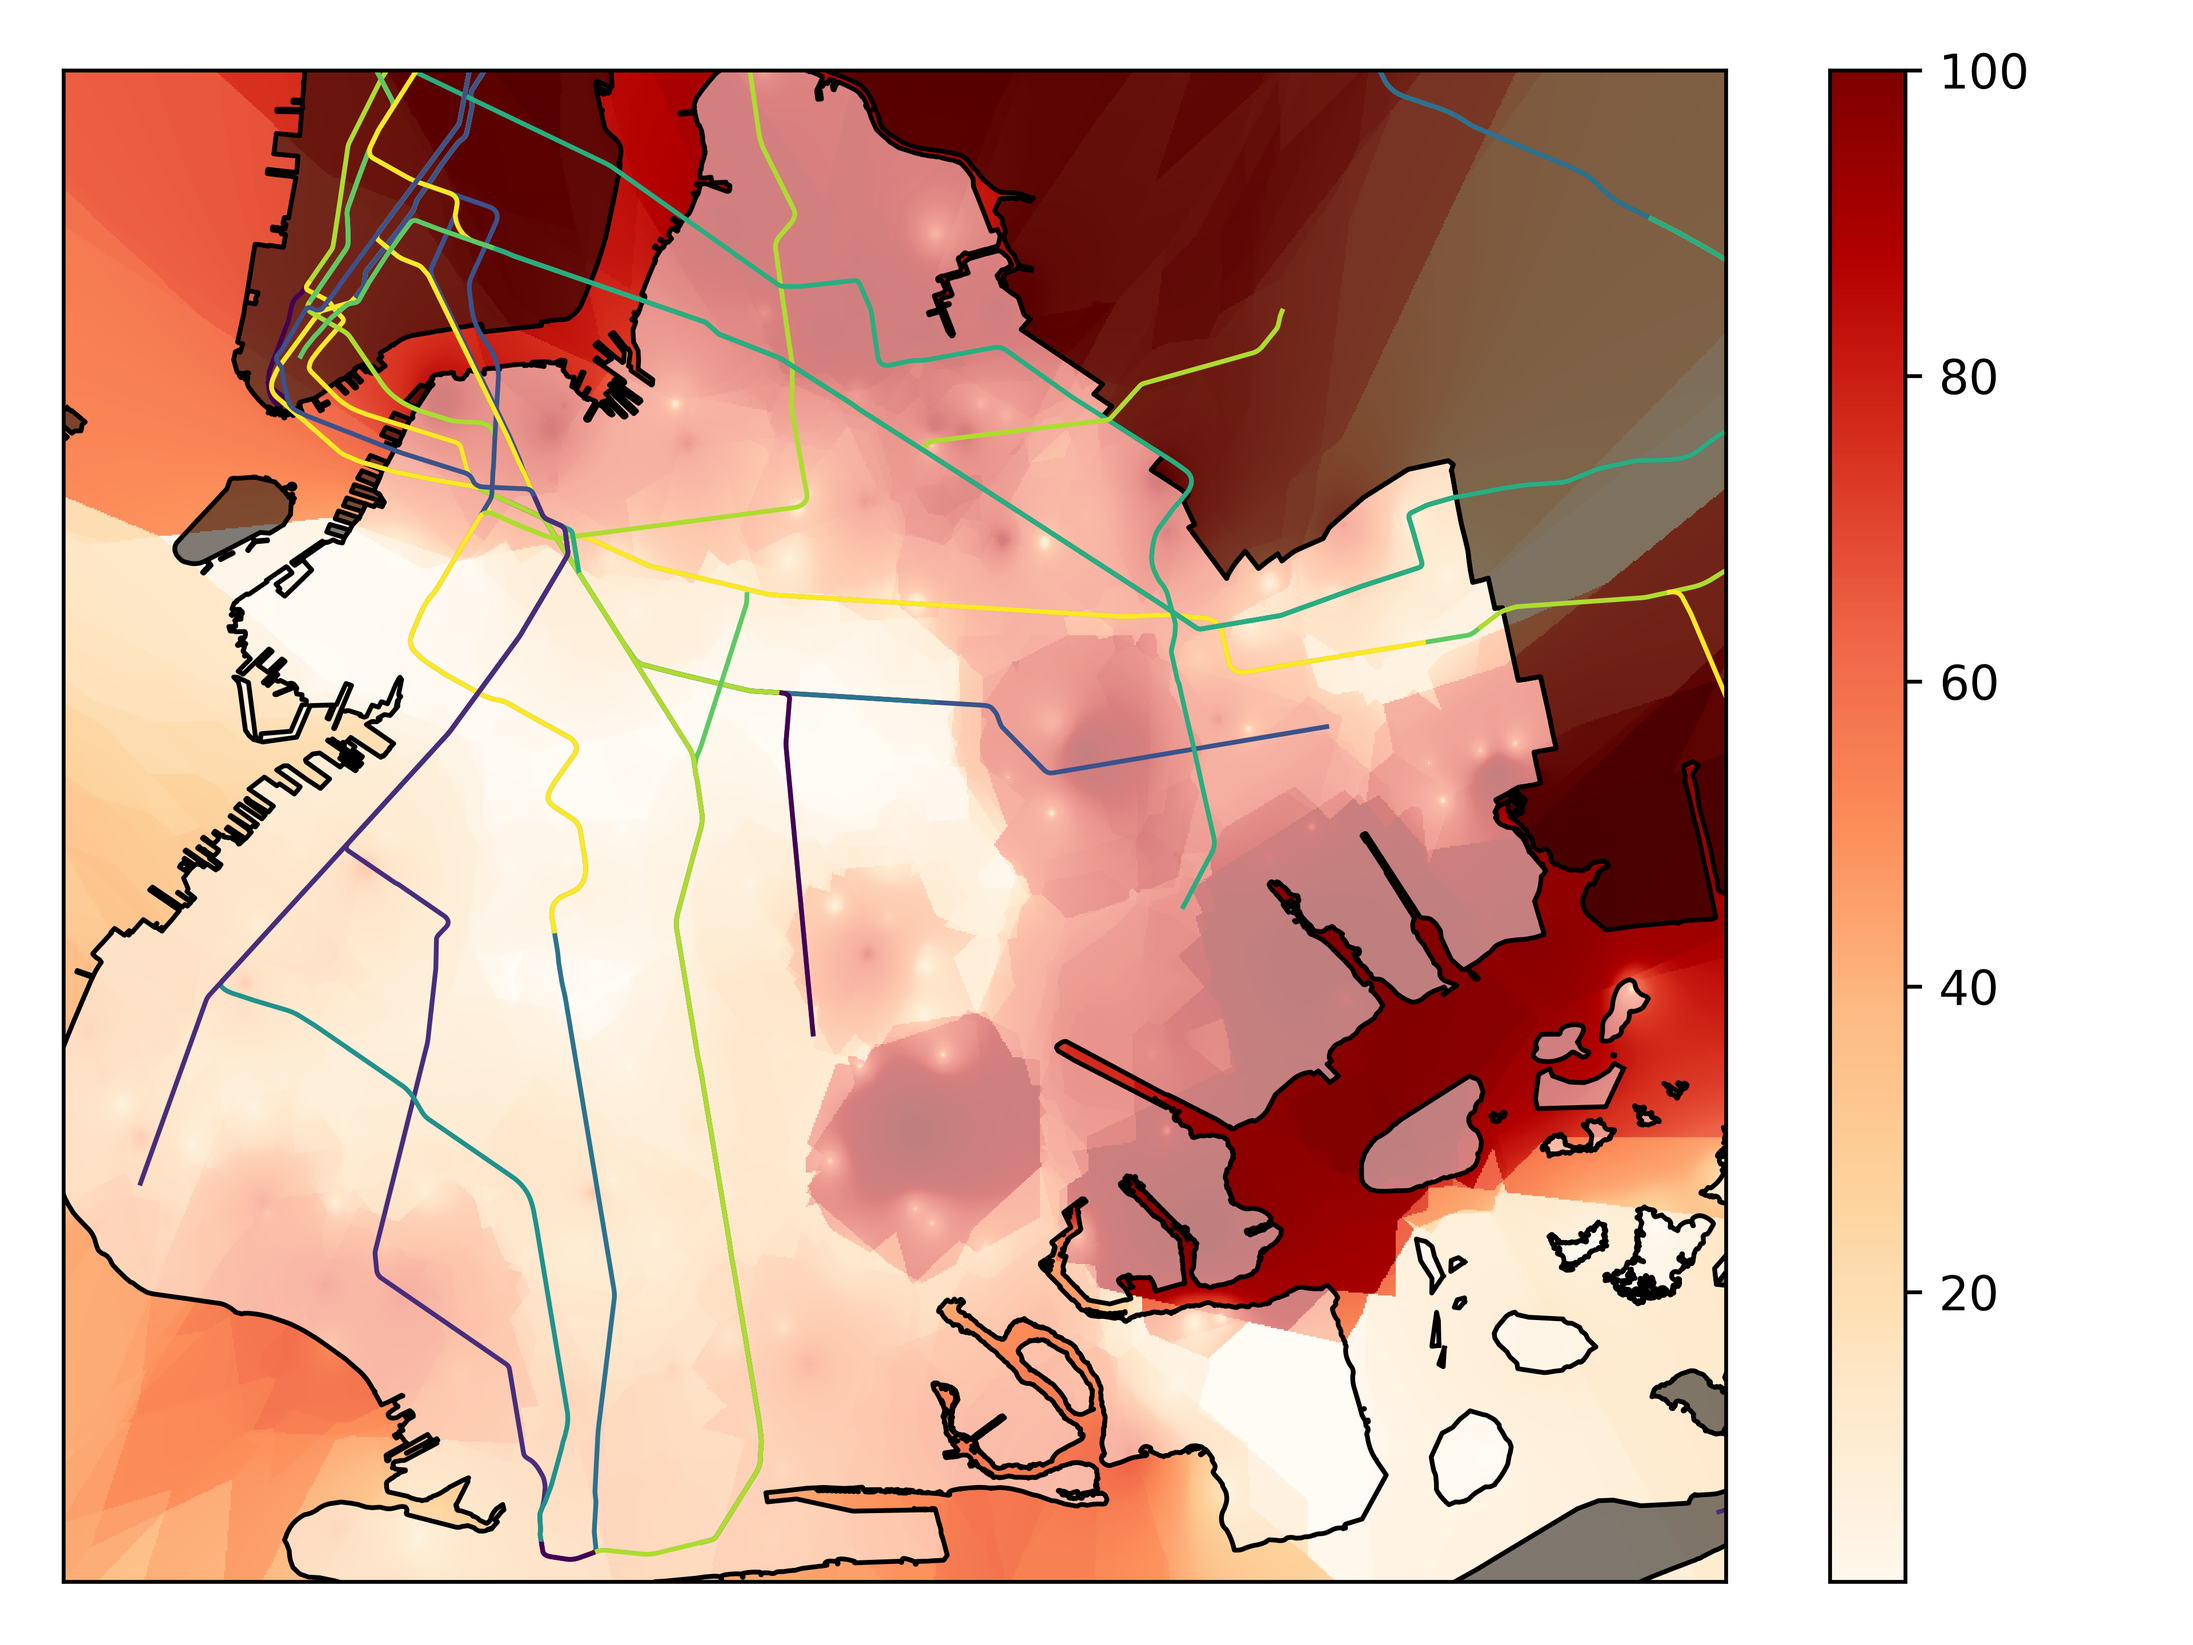
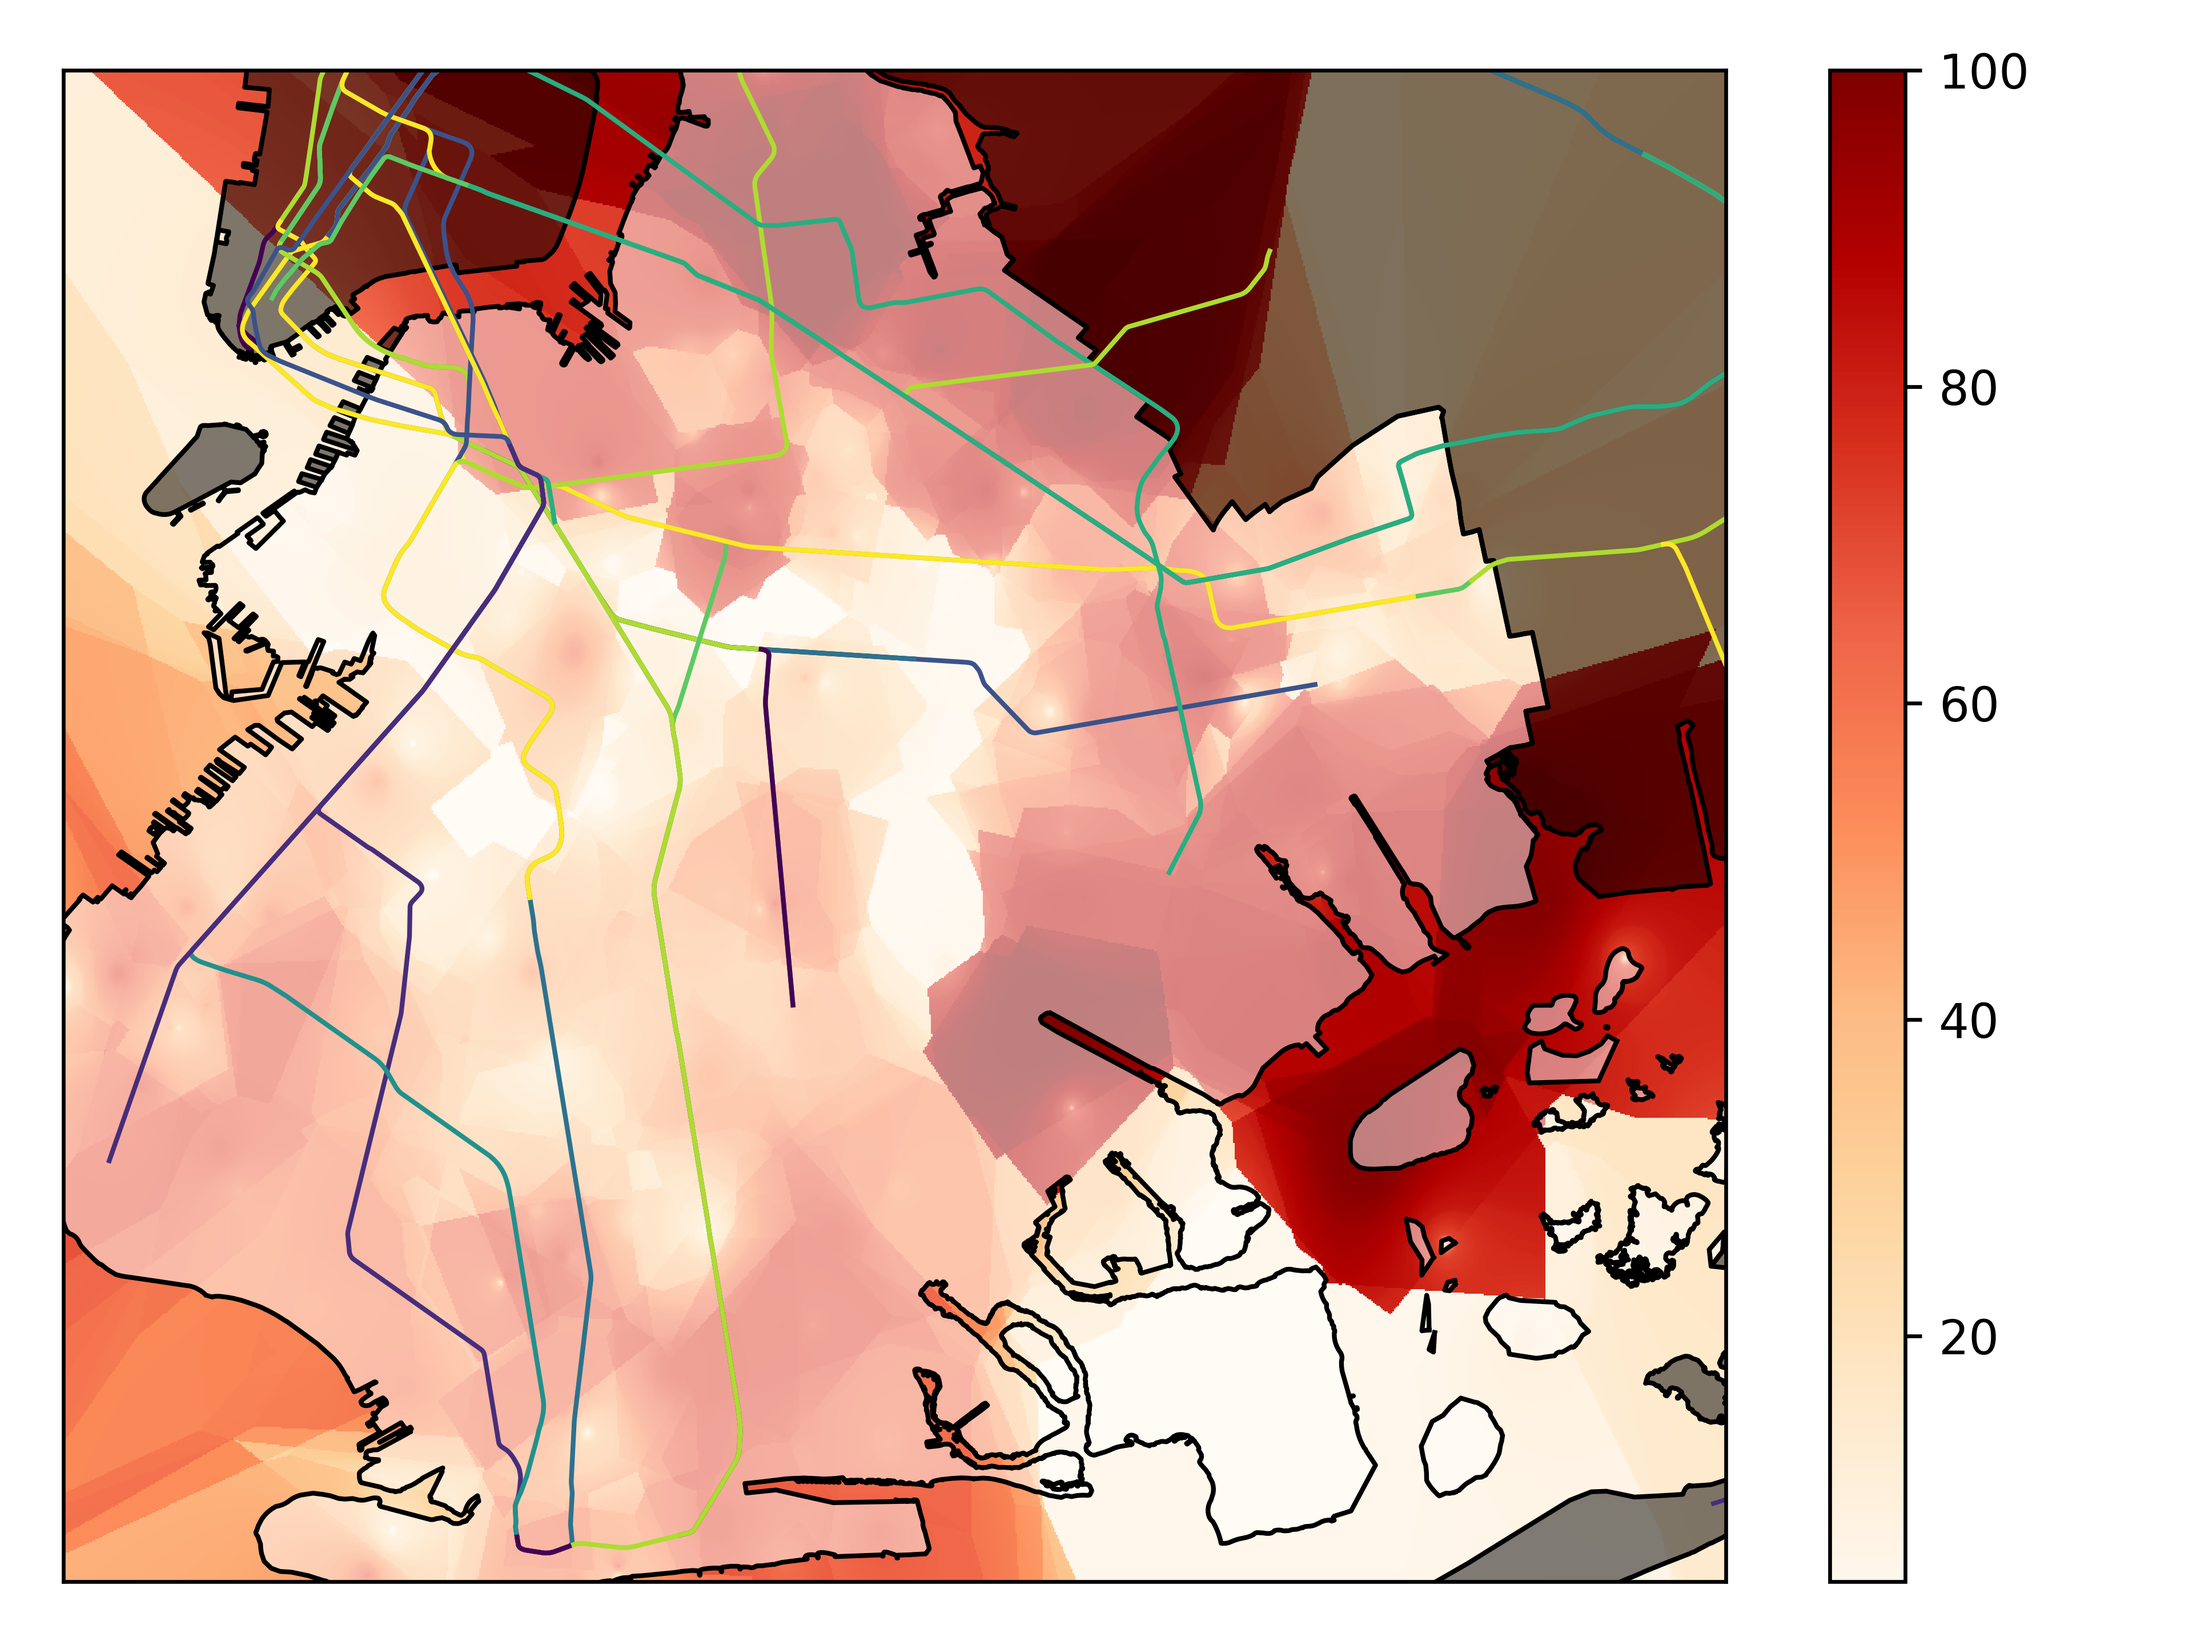
Final-ish results

diff --git a/sample_impact.py b/sample_impact.py
@@ -26,8 +26,10 @@ def _num_samples(dirname):
     except IOError:
         return 0
 
+
 with open("./data/geoid_sorted_distances.npy", 'rb') as fd:
     geoid_distances = np.load(fd)
+
 
 class LocationImpact():
     borough_cdfs = {}
@@ -90,9 +92,14 @@ class LocationImpact():
         df_l = df_loc.query('exclude_l == False')
         df_nol = df_loc.query('exclude_l == True')
 
+        inv_transit_nol = 1.0 / df_nol.transit_time.values
+        inv_transit_nol[np.isinf(inv_transit_nol)] = 0
+        inv_transit_l = 1.0 / df_l.transit_time.values
+        inv_transit_l[np.isinf(inv_transit_l)] = 0
+
         impact = pyemd.emd(
-            np.ascontiguousarray(df_nol.transit_time.values),
-            np.ascontiguousarray(df_l.transit_time.values),
+            inv_transit_nol,
+            inv_transit_l,
             geoid_distances
         )
         df_new = (df.drop(['transit_time', 'to_location', 'exclude_l'], axis=1)
@@ -120,7 +127,6 @@ def multiprocess_sampler(f, N):
                        tqdm(samples, total=N)))
 
 
-
 if __name__ == "__main__":
     try:
         gdf = gp.read_file(sys.argv[1])
@@ -128,7 +134,7 @@ if __name__ == "__main__":
         sampler = LocationImpact()
         df = pd.concat(multiprocess_sampler(
             sampler.sample_impact,
-            10000
+            10000,
         ))
         points = [Point(xy) for xy in zip(df.location_x, df.location_y)]
         crs = {'init': 'epsg:4326'}
@@ -148,14 +154,27 @@ if __name__ == "__main__":
             subset = gdf.query('borough == "{}"'.format(borough))
         else:
             subset = gdf
+        borough = borough or 'NYC'
 
         py.clf()
-        plot_utils.plot_points(subset, 'impact', neighbors=64, bins=(1024, 1024), percentile=True)
-        py.savefig("figures/impact_{}_percentile.png".format(borough or 'nyc'),
+        gdf.impact.plot('hist', bins=25)
+        py.gca().set_yscale("log", nonposx='clip')
+        py.savefig("figures/impact_{}_hist.png".format(borough))
+
+        py.clf()
+        plot_utils.plot_points(subset, 'impact', neighbors=32,
+                               bins=(1024, 1024), percentile=True)
+        py.savefig("figures/impact_{}_percentile.png".format(borough),
                    dpi=600)
 
         py.clf()
-        plot_utils.plot_points(subset, 'impact', neighbors=64, bins=(1024, 1024),
-                               percentile=False, log=True)
-        py.savefig("figures/impact_{}_log.png".format(borough or 'nyc'),
+        plot_utils.plot_points(subset, 'impact', neighbors=32,
+                               bins=(1024, 1024), exp=True)
+        py.savefig("figures/impact_{}_exp.png".format(borough),
+                   dpi=600)
+
+        py.clf()
+        plot_utils.plot_points(subset, 'impact', neighbors=32,
+                               bins=(1024, 1024))
+        py.savefig("figures/impact_{}.png".format(borough),
                    dpi=600)

diff --git a/plot_utils.py b/plot_utils.py
@@ -4,14 +4,18 @@ import geopandas as gp
 from sklearn.neighbors import KNeighborsRegressor
 
 
-def plot_points(data, field, neighbors=12, bins=(100, 100), percentile=True,
-                log=False, cmap='OrRd'):
+def plot_points(data, field, neighbors=12, bins=(100, 100), percentile=False,
+                log=False, exp=False, cmap='OrRd'):
     knn = KNeighborsRegressor(n_neighbors=neighbors, weights='distance')
     X, y = zip(*[((d.geometry.coords[0][1], d.geometry.coords[0][0]),
                   d[field])
                  for i, d in data.iterrows()])
+    X = np.asarray(X)
+    y = np.asarray(y)
     if log:
-        y = np.nan_to_num(np.log(y))
+        y = np.nan_to_num(np.log1p(y + y.min()))
+    if exp:
+        y = np.nan_to_num(np.exp(y + y.min()))
 
     knn.fit(X, y)
 
